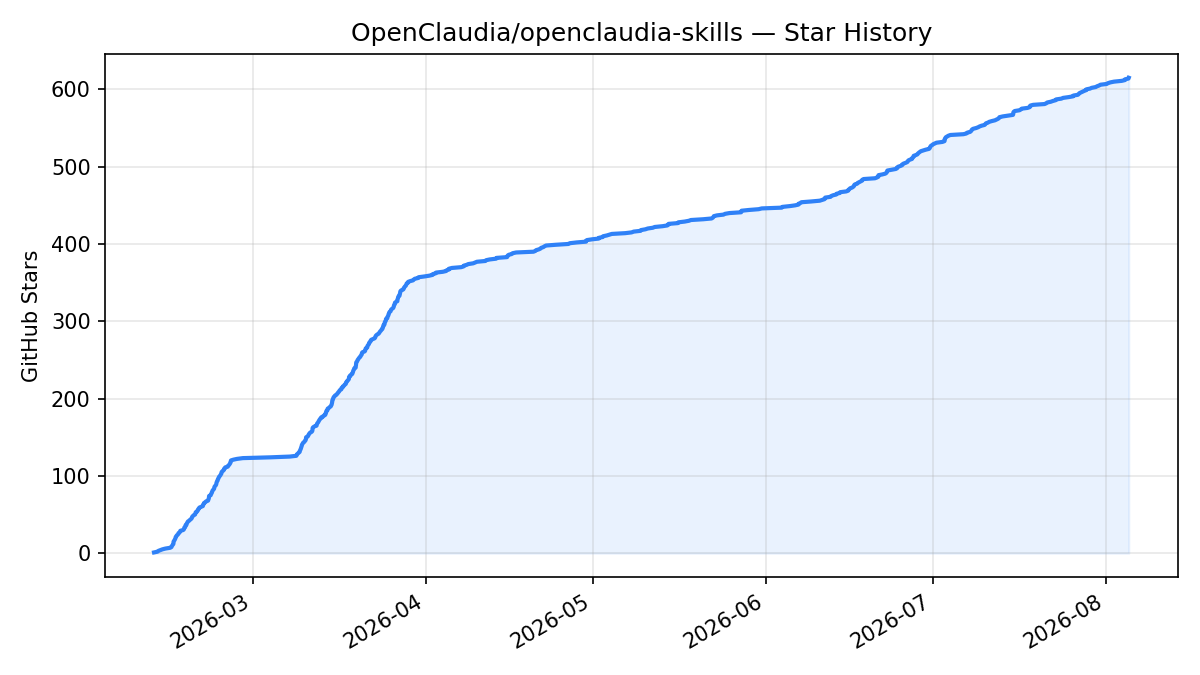
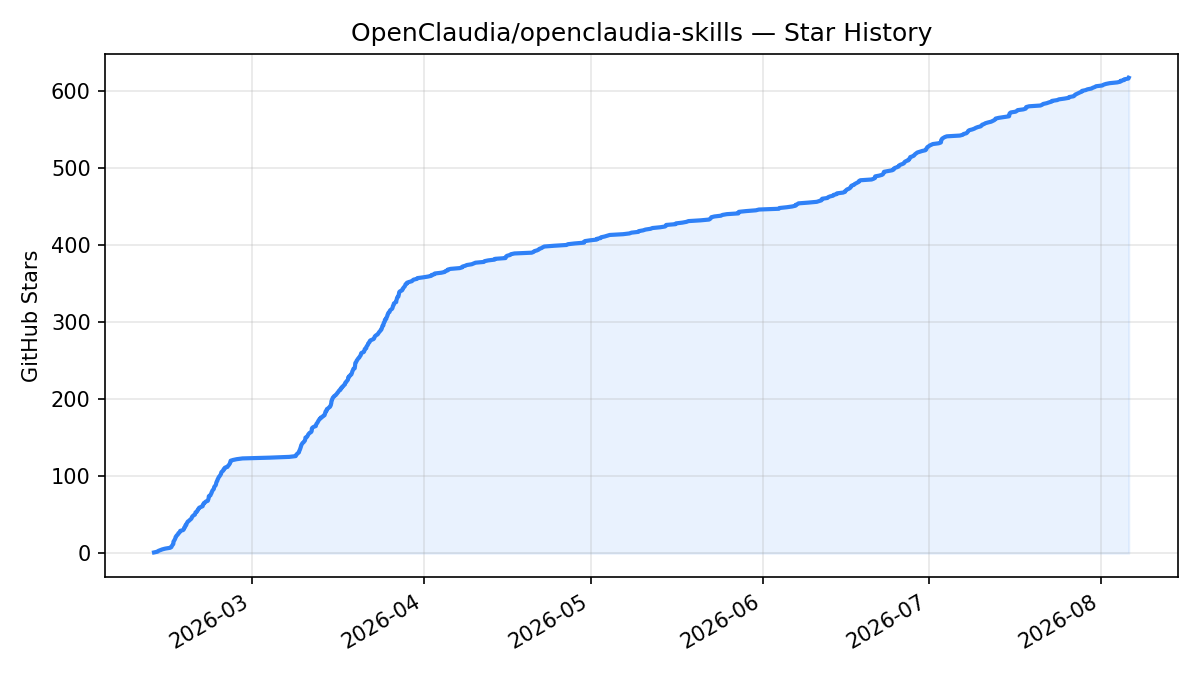
readme: refresh star chart (617 stars)

diff --git a/README.md b/README.md
@@ -327,7 +327,7 @@ MIT — see [LICENSE](LICENSE)
 
 ![Star History Chart](assets/star-history.png)
 
-<sub>Updated 2026-08-05. GitHub [restricted the stargazers API](https://github.blog/changelog/2026-06-30-upcoming-access-restrictions-to-public-api-endpoints-and-ui-views/) in June 2026, so the live star-history.com badge no longer renders; this chart is generated from the repo's own star data.</sub>
+<sub>Updated 2026-08-06. GitHub [restricted the stargazers API](https://github.blog/changelog/2026-06-30-upcoming-access-restrictions-to-public-api-endpoints-and-ui-views/) in June 2026, so the live star-history.com badge no longer renders; this chart is generated from the repo's own star data.</sub>
 
 ---
 
